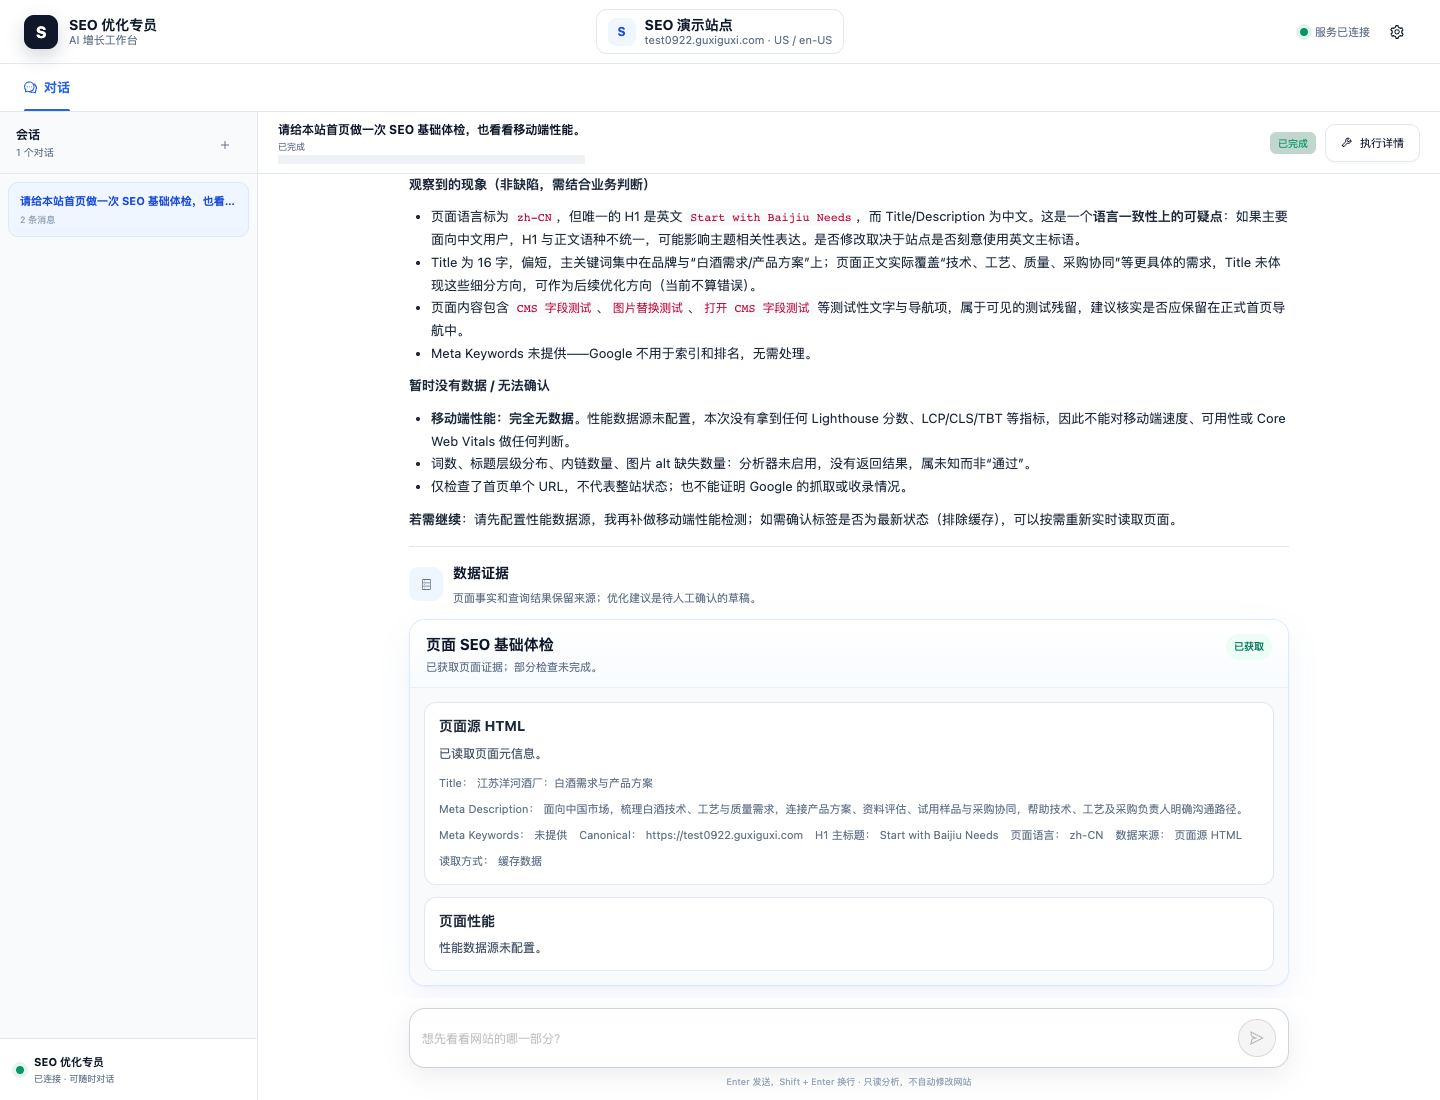
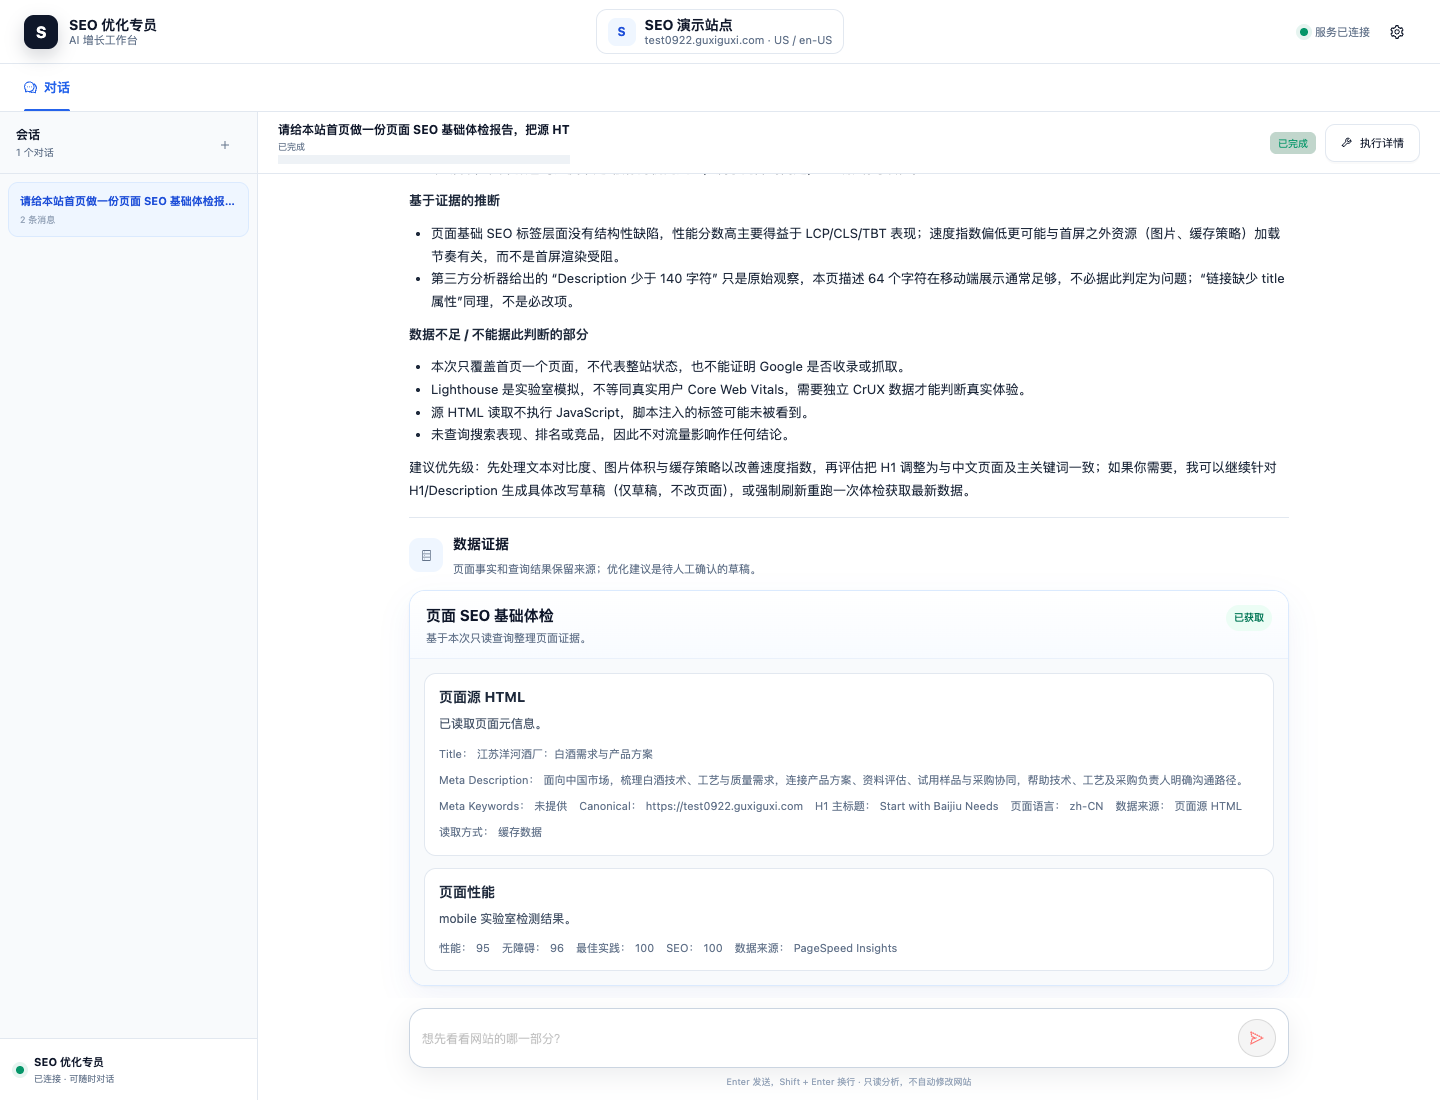
fix: load SEO settings from the project root

diff --git a/tests/test_config.py b/tests/test_config.py
@@ -1,0 +1,41 @@
+from __future__ import annotations
+
+import importlib.util
+import shutil
+import sys
+from pathlib import Path
+
+import pytest
+
+from src.core import config
+
+
+@pytest.fixture
+def config_from_other_directory(tmp_path, monkeypatch):
+    project = tmp_path / "project"
+    source = project / "src/core/config.py"
+    source.parent.mkdir(parents=True)
+    shutil.copyfile(Path(config.__file__), source)
+    (project / ".env").write_text("PAGESPEED_API_KEY=base-fixture\n")
+    (project / ".env.local").write_text("PAGESPEED_API_KEY=local-fixture\n")
+    working = tmp_path / "another-directory"
+    working.mkdir()
+    (working / ".env.local").write_text("PAGESPEED_API_KEY=wrong-directory\n")
+    monkeypatch.chdir(working)
+    monkeypatch.delenv("PAGESPEED_API_KEY", raising=False)
+    spec = importlib.util.spec_from_file_location("isolated_core_config", source)
+    module = importlib.util.module_from_spec(spec)
+    monkeypatch.setitem(sys.modules, spec.name, module)
+    spec.loader.exec_module(module)
+    return module
+
+
+def test_default_env_files_are_loaded_from_project_not_working_directory(
+    config_from_other_directory,
+):
+    assert config_from_other_directory.settings.pagespeed_api_key == "local-fixture"
+
+
+def test_environment_still_overrides_project_local_file(config_from_other_directory, monkeypatch):
+    monkeypatch.setenv("PAGESPEED_API_KEY", "environment-fixture")
+    assert config_from_other_directory.Settings().pagespeed_api_key == "environment-fixture"

diff --git a/src/core/config.py b/src/core/config.py
@@ -9,7 +9,7 @@
     from src.core.config import settings
     print(settings.ahrefs_api_base_url)
 
-环境变量优先级: .env.local > .env > 系统环境变量 > 默认值
+配置优先级: 系统环境变量 > 项目根目录 .env.local > .env > 默认值
 """
 
 from __future__ import annotations
@@ -18,6 +18,8 @@ from pathlib import Path
 from typing import Literal
 
 from pydantic_settings import BaseSettings, SettingsConfigDict
+
+PROJECT_ROOT = Path(__file__).resolve().parents[2]
 
 
 class Settings(BaseSettings):
@@ -49,7 +51,7 @@ class Settings(BaseSettings):
     """
 
     model_config = SettingsConfigDict(
-        env_file=(".env", ".env.local"),
+        env_file=(PROJECT_ROOT / ".env", PROJECT_ROOT / ".env.local"),
         env_file_encoding="utf-8",
         extra="ignore",
     )

diff --git a/docs/screenshots/README.md b/docs/screenshots/README.md
@@ -17,9 +17,9 @@
 | 页面变更复检 | [保存基线](09-page-review-baseline.png)、[按目标复检](10-page-change-review.png) | [page_change_review.py](../../src/seo_agent/workflows/page_change_review.py) |
 
 <details>
-<summary>首页体检：先看页面事实，性能未配置时保留缺项</summary>
+<summary>首页体检：组合 HTML 核验与移动端性能证据</summary>
 
-读取标题、描述、H1、Canonical 等源 HTML 信息。此次没有配置 PageSpeed，性能不被判为通过；单页结果不代表整站审计或 Google 收录检查。
+本次已启用 HTML 基础扫描和 PageSpeed，工作流汇总标题、描述、H1、Canonical 及移动端 Lighthouse 结果：性能 95、无障碍 96、最佳实践 100、SEO 100。证据保留缓存状态；单页实验室结果不代表整站审计、Google 收录状态或真实用户体验。
 
 ![首页 SEO 体检](02-page-audit.png)
 
